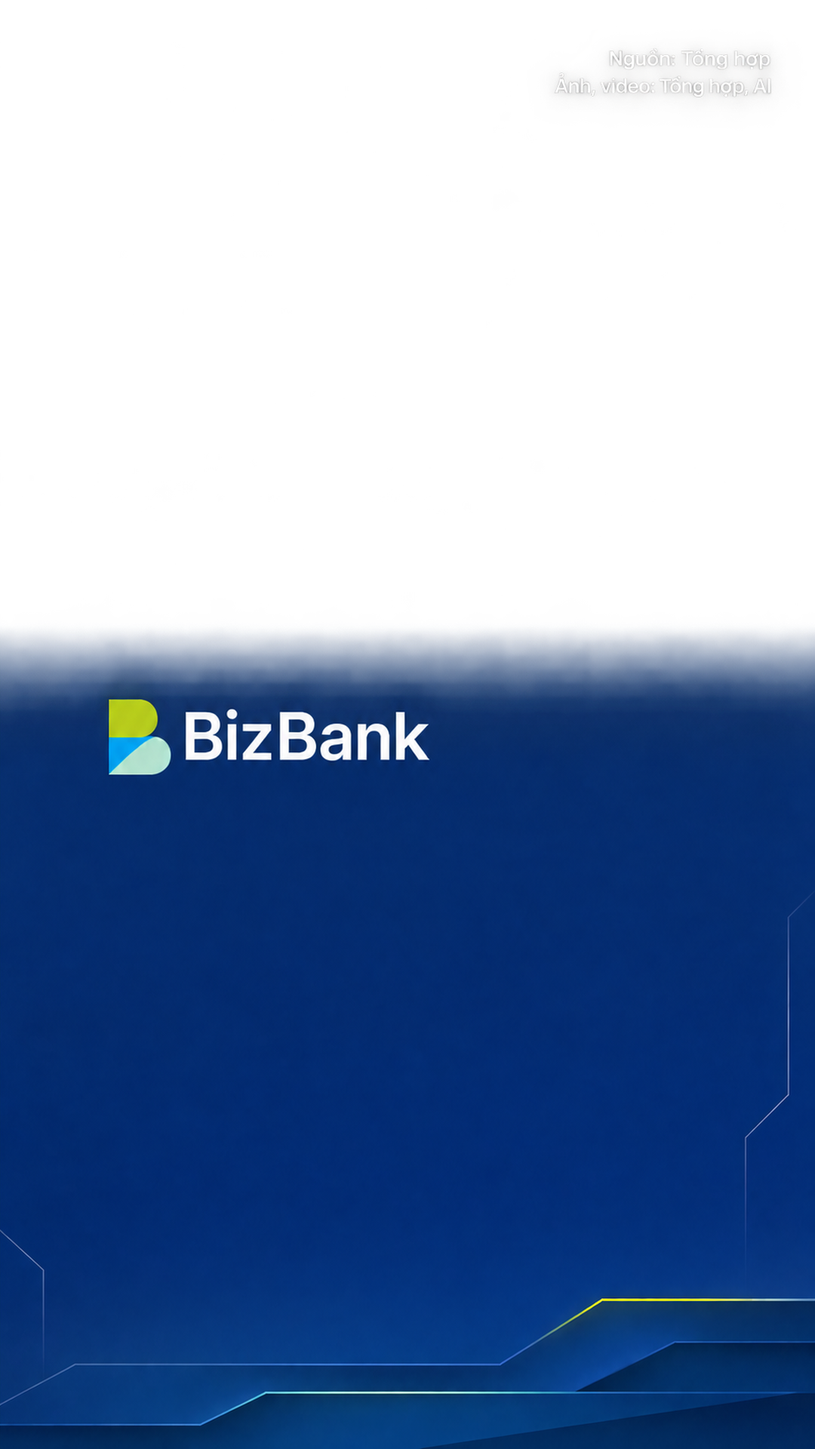
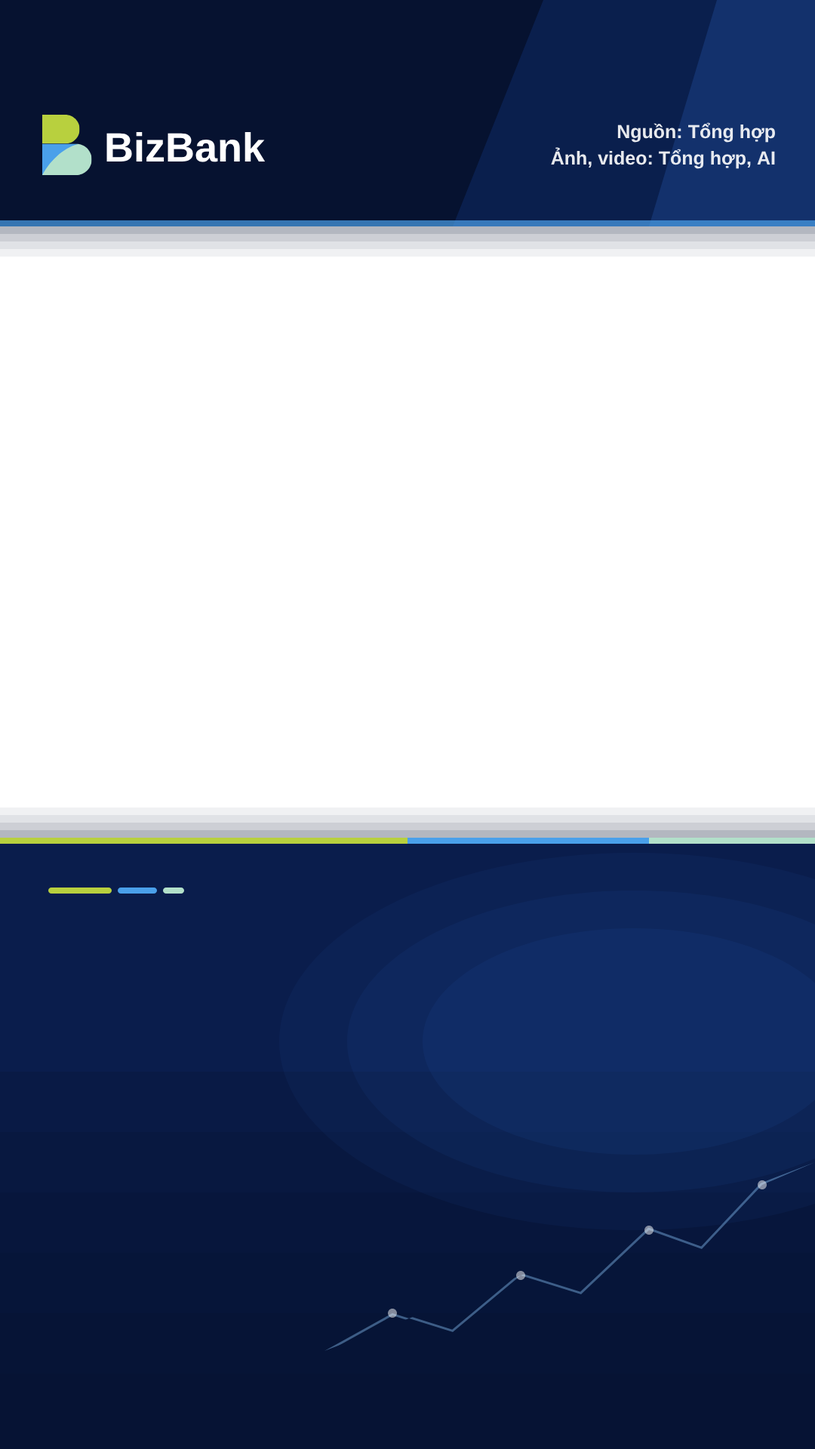
Template 2 BizBank: khung 4:3, câu hook, zoom theo độ phân giải, ảnh ưu tiên ≥1080p, thẻ theo màu template
- overlay.png = Template 2 (1080x1920), layout khung 4:3 y300–1110, vùng hook, màu brand đo từ template
- NewsShort: mọi lớp hình cắt theo khung 4:3; chuyển động giới hạn theo zoom_max; câu hook; thẻ navy + ba vạch màu
- render: zoom_max từ độ phân giải ảnh gốc (không phóng vỡ ảnh)
- media: ưu tiên ảnh phủ 1080x810, ảnh nhỏ chỉ để bù; ảnh AI ngang 1536x1024
- script.json: hook_text (< 100 ký tự); prompts, template.md, decisions.md

diff --git a/core/remotion/src/NewsShort.jsx b/core/remotion/src/NewsShort.jsx
@@ -1,35 +1,41 @@
 import {AbsoluteFill, Audio, Img, Sequence, interpolate, spring, staticFile, useCurrentFrame, useVideoConfig} from 'remotion';
 import {FONT} from './fonts';
 
-// Thứ tự lớp (decisions.md): media → cutout → thẻ chữ/số → overlay.png (template trên cùng).
-// Không có phụ đề. Thẻ và cutout chỉ nằm trong vùng ảnh (nửa trên) vì khung template che phần dưới.
+// Thứ tự lớp (decisions.md): ảnh nền → cutout → thẻ chữ/số → overlay.png (template trên cùng) ; câu hook dưới khung.
+// Mọi lớp hình nằm trong khung 4:3 của template (layout.media) và bị cắt theo khung: phóng, lia, trượt
+// đều không ra ngoài khung. Không có phụ đề.
 const FADE = 6;
 
 export const NewsShort = (props) => {
   const {fps} = useVideoConfig();
   const at = (seconds) => Math.round(seconds * fps);
-  const brand = {navy: '#0B2A6B', lime: '#C3D82E', cyan: '#22A6E8', mint: '#A8E0D0', ...props.style};
+  const brand = {navy: '#081840', lime: '#B8D03E', blue: '#4AA0EA', mint: '#B2E0CA', ...props.style};
+  const box = props.layout.media;
+  const local = (r) => ({...r, x: r.x - box.x, y: r.y - box.y});  // toạ độ trong khung
   const span = (item) => Math.max(1, at(item.end) - at(item.start));
   return (
     <AbsoluteFill style={{backgroundColor: brand.navy, fontFamily: FONT}}>
-      {props.scenes.map((scene, i) => (
-        // Cảnh kéo dài thêm FADE khung nằm dưới cảnh sau trong lúc cảnh sau hiện dần: không chớp nền.
-        <Sequence key={`m${i}`} from={at(scene.start)}
-          durationInFrames={Math.max(1, at(scene.end) - at(scene.start) + (i < props.scenes.length - 1 ? FADE : 0))}>
-          <MediaScene scene={scene} rect={props.layout.media} fade={i > 0} />
-        </Sequence>
-      ))}
-      {props.cutouts.map((item, i) => (
-        <Sequence key={`c${i}`} from={at(item.start)} durationInFrames={span(item)}>
-          <Cutout item={item} rect={props.layout.cutout} />
-        </Sequence>
-      ))}
-      {props.cards.map((card, i) => (
-        <Sequence key={`k${i}`} from={at(card.start)} durationInFrames={span(card)}>
-          <Card card={card} rect={props.layout.cards} brand={brand} />
-        </Sequence>
-      ))}
+      <div style={{position: 'absolute', left: box.x, top: box.y, width: box.w, height: box.h, overflow: 'hidden'}}>
+        {props.scenes.map((scene, i) => (
+          // Cảnh kéo dài thêm FADE khung nằm dưới cảnh sau trong lúc cảnh sau hiện dần: không chớp nền.
+          <Sequence key={`m${i}`} from={at(scene.start)}
+            durationInFrames={Math.max(1, at(scene.end) - at(scene.start) + (i < props.scenes.length - 1 ? FADE : 0))}>
+            <MediaScene scene={scene} fade={i > 0} />
+          </Sequence>
+        ))}
+        {props.cutouts.map((item, i) => (
+          <Sequence key={`c${i}`} from={at(item.start)} durationInFrames={span(item)}>
+            <Cutout item={item} rect={local(props.layout.cutout)} />
+          </Sequence>
+        ))}
+        {props.cards.map((card, i) => (
+          <Sequence key={`k${i}`} from={at(card.start)} durationInFrames={span(card)}>
+            <Card card={card} rect={local(props.layout.cards)} brand={brand} />
+          </Sequence>
+        ))}
+      </div>
       {props.overlay ? <Img src={staticFile(props.overlay)} style={{position: 'absolute', inset: 0, width: '100%', height: '100%'}} /> : null}
+      {props.hook && props.layout.hook ? <Hook text={props.hook} rect={props.layout.hook} /> : null}
       {props.voice ? <Audio src={staticFile(props.voice)} /> : null}
       {props.sfx.map((item, i) => (
         <Sequence key={`s${i}`} from={at(item.start)}>
@@ -50,77 +56,103 @@ const Music = ({music, duration}) => {
   return <Audio src={staticFile(music.src)} volume={volume} loop />;
 };
 
+// Chuyển động trong giới hạn z (zoom_max tính từ độ phân giải ảnh gốc). Lia tối đa (z-1)/(2z) để mép ảnh
+// không bao giờ lộ trong khung.
 const MOTIONS = {
-  'zoom-in': (p) => ({scale: 1 + 0.15 * p, x: 0, y: 0}),
-  'zoom-out': (p) => ({scale: 1.15 - 0.15 * p, x: 0, y: 0}),
-  'pan-left': (p) => ({scale: 1.15, x: 5 - 10 * p, y: 0}),
-  'pan-right': (p) => ({scale: 1.15, x: -5 + 10 * p, y: 0}),
-  'ken-burns': (p) => ({scale: 1.06 + 0.12 * p, x: -2 * p, y: -2 * p}),
-  'static': () => ({scale: 1.02, x: 0, y: 0}),
-  'split': (p) => ({scale: 1.05 + 0.05 * p, x: 0, y: 0}),
+  'zoom-in': (p, z) => ({s: 1 + (z - 1) * p, x: 0, y: 0}),
+  'zoom-out': (p, z) => ({s: z - (z - 1) * p, x: 0, y: 0}),
+  'pan-left': (p, z, a) => ({s: z, x: a - 2 * a * p, y: 0}),
+  'pan-right': (p, z, a) => ({s: z, x: -a + 2 * a * p, y: 0}),
+  'ken-burns': (p, z, a) => {
+    const s = 1 + (z - 1) * p;
+    const b = ((s - 1) / (2 * s)) * 100 * 0.7;
+    return {s, x: -b, y: -b * 0.6};
+  },
+  'static': () => ({s: 1, x: 0, y: 0}),
+  'split': (p, z) => ({s: 1 + (z - 1) * p, x: 0, y: 0}),
 };
 
-const MediaScene = ({scene, rect, fade}) => {
+const MediaScene = ({scene, fade}) => {
   const frame = useCurrentFrame();
   const {fps} = useVideoConfig();
   const total = Math.max(1, Math.round((scene.end - scene.start) * fps));
   const p = interpolate(frame, [0, total], [0, 1], {extrapolateRight: 'clamp'});
-  const m = (MOTIONS[scene.motion] || MOTIONS['ken-burns'])(p);
+  const z = Math.max(1, scene.zoom_max || 1.08);
+  const a = ((z - 1) / (2 * z)) * 100 * 0.9;
+  const m = (MOTIONS[scene.motion] || MOTIONS['ken-burns'])(p, z, a);
   const fadeIn = fade ? interpolate(frame, [0, FADE], [0, 1], {extrapolateRight: 'clamp'}) : 1;
   const src = staticFile(scene.src);
-  const box = {position: 'absolute', left: rect.x, top: rect.y, width: rect.w, height: rect.h, overflow: 'hidden'};
   return (
     <AbsoluteFill style={{opacity: fadeIn}}>
-      <div style={box}>
-        {/* Nền: chính ảnh đó phóng to, làm mờ, để ảnh văn bản/ảnh ngang không để lại viền trống */}
+      {scene.fit === 'contain' ? (
+        // Ảnh văn bản/biểu đồ: hiện đủ, phía sau là chính ảnh đó làm mờ để không có viền trống
         <Img src={src} style={{position: 'absolute', inset: 0, width: '100%', height: '100%', objectFit: 'cover',
-          filter: 'blur(36px) brightness(0.55)', transform: 'scale(1.25)'}} />
-        <Img src={src} style={{position: 'absolute', inset: 0, width: '100%', height: '100%', objectFit: scene.fit || 'cover',
-          transform: `scale(${m.scale}) translate(${m.x}%, ${m.y}%)`}} />
-      </div>
+          filter: 'blur(30px) brightness(0.5)', transform: 'scale(1.2)'}} />
+      ) : null}
+      <Img src={src} style={{position: 'absolute', inset: 0, width: '100%', height: '100%', objectFit: scene.fit || 'cover',
+        transform: `scale(${m.s}) translate(${m.x}%, ${m.y}%)`}} />
     </AbsoluteFill>
   );
 };
 
-// Cutout (người được nhắc tên, sự vật quan trọng): trượt vào từ cạnh, nảy nhẹ, chân đặt ở mép dưới vùng ảnh.
+// Cutout: trượt vào từ cạnh, nảy nhẹ, chân đặt ở đáy khung (dải mờ của template phủ lên chân, nhìn như đứng sau khung).
 const Cutout = ({item, rect}) => {
   const frame = useCurrentFrame();
   const {fps, durationInFrames} = useVideoConfig();
   const enter = spring({frame, fps, config: {damping: 13, stiffness: 120}});
   const leave = interpolate(frame, [durationInFrames - 6, durationInFrames], [1, 0], {extrapolateLeft: 'clamp'});
-  const height = Math.min(rect.h * 0.92, 640);
-  const width = Math.min(height * item.ratio, rect.w * 0.55);
+  const height = Math.min(rect.h * 0.86, 660);
+  const width = Math.min(height * item.ratio, rect.w * 0.5);
   const right = item.side === 'right';
-  const x = right ? rect.x + rect.w - width - 30 : rect.x + 30;
-  const slide = (1 - enter) * (right ? 1 : -1) * (width + 60);
+  const x = right ? rect.x + rect.w - width - 24 : rect.x + 24;
+  const slide = (1 - enter) * (right ? 1 : -1) * (width + 40);
   const float = Math.sin(frame / 18) * 4;
   return (
-    <Img src={staticFile(item.src)} style={{position: 'absolute', left: x + slide, top: rect.y + rect.h - height + float + 8,
+    <Img src={staticFile(item.src)} style={{position: 'absolute', left: x + slide, top: rect.y + rect.h - height + float + 6,
       width, height, objectFit: 'contain', objectPosition: 'bottom', opacity: leave,
-      filter: 'drop-shadow(0 0 2px #fff) drop-shadow(0 0 2px #fff) drop-shadow(0 16px 22px rgba(0,0,0,0.55))'}} />
+      filter: 'drop-shadow(0 0 2px #fff) drop-shadow(0 0 2px #fff) drop-shadow(0 14px 20px rgba(0,0,0,0.5))'}} />
   );
 };
 
-// Thẻ chữ/số: giá trị lớn + nhãn nhỏ, màu nhận diện, bật lên đúng lúc được đọc.
+// Thẻ chữ/số theo nhận diện template: nền navy, ba vạch lá mạ/xanh/bạc hà, số trắng, nhãn bạc hà.
 const Card = ({card, rect, brand}) => {
   const frame = useCurrentFrame();
   const {fps, durationInFrames} = useVideoConfig();
   const pop = spring({frame, fps, config: {damping: 12, stiffness: 170}});
   const leave = interpolate(frame, [durationInFrames - 5, durationInFrames], [1, 0], {extrapolateLeft: 'clamp'});
-  const narrow = card.align !== 'center';
-  const width = narrow ? rect.w * 0.6 : Math.min(rect.w, 860);
-  const left = card.align === 'left' ? rect.x : card.align === 'right' ? rect.x + rect.w - width : rect.x + (rect.w - width) / 2;
-  const valueSize = Math.min(narrow ? 84 : 104, Math.floor((width - 70) / Math.max(1, card.value.length * 0.6)));
+  const beside = card.align !== 'center';
+  const maxWidth = rect.w * (beside ? 0.58 : 0.74);
+  const valueSize = Math.min(beside ? 76 : 88, Math.floor((maxWidth - 72) / Math.max(4, card.value.length * 0.58)));
+  const anchor = card.align === 'right' ? {right: 0} : {left: 0};
   return (
-    <div style={{position: 'absolute', left, top: rect.y + rect.h - 230, width, opacity: leave,
-      transform: `translateY(${(1 - pop) * 40}px) scale(${0.85 + 0.15 * pop})`, transformOrigin: 'center bottom'}}>
-      <div style={{background: '#fff', borderRadius: 22, overflow: 'hidden', boxShadow: '0 14px 34px rgba(0,0,0,0.45)',
-        borderLeft: `14px solid ${brand.lime}`}}>
-        <div style={{padding: '14px 28px 4px', color: brand.navy, fontWeight: 800, fontSize: valueSize, lineHeight: 1.05,
-          letterSpacing: -1}}>{card.value}</div>
-        <div style={{padding: '0 28px 16px', color: '#3a4a6b', fontWeight: 600, fontSize: narrow ? 30 : 36, lineHeight: 1.2}}>
-          {card.label}</div>
+    <div style={{position: 'absolute', left: rect.x, top: rect.y, width: rect.w, height: rect.h, opacity: leave}}>
+      <div style={{position: 'absolute', bottom: 0, ...anchor, maxWidth, transformOrigin: card.align === 'right' ? 'right bottom' : 'left bottom',
+        transform: `translateY(${(1 - pop) * 36}px) scale(${0.86 + 0.14 * pop})`,
+        background: 'rgba(8,24,64,0.94)', borderRadius: 20, padding: '18px 32px 20px',
+        boxShadow: '0 12px 30px rgba(0,0,0,0.45)', border: '1px solid rgba(178,224,202,0.25)'}}>
+        <div style={{display: 'flex', gap: 8, marginBottom: 10}}>
+          <span style={{width: 54, height: 7, borderRadius: 4, background: brand.lime}} />
+          <span style={{width: 32, height: 7, borderRadius: 4, background: brand.blue}} />
+          <span style={{width: 16, height: 7, borderRadius: 4, background: brand.mint}} />
+        </div>
+        <div style={{color: '#fff', fontWeight: 800, fontSize: valueSize, lineHeight: 1.04, letterSpacing: -0.5,
+          whiteSpace: 'nowrap'}}>{card.value}</div>
+        <div style={{color: brand.mint, fontWeight: 600, fontSize: beside ? 28 : 32, lineHeight: 1.2, marginTop: 6}}>{card.label}</div>
       </div>
+    </div>
+  );
+};
+
+// Câu hook < 100 ký tự, đứng yên suốt video dưới khung ảnh.
+const Hook = ({text, rect}) => {
+  const frame = useCurrentFrame();
+  const {fps} = useVideoConfig();
+  const enter = spring({frame, fps, config: {damping: 16}});
+  const size = text.length > 70 ? 54 : text.length > 45 ? 60 : 68;
+  return (
+    <div style={{position: 'absolute', left: rect.x, top: rect.y, width: rect.w, height: rect.h, opacity: enter,
+      transform: `translateY(${(1 - enter) * 20}px)`}}>
+      <div style={{color: '#fff', fontWeight: 800, fontSize: size, lineHeight: 1.22, textWrap: 'balance'}}>{text}</div>
     </div>
   );
 };

diff --git a/core/news/media.py b/core/news/media.py
@@ -19,7 +19,12 @@ from . import agents
 from .config import ROOT, ensure_online
 from .episode import write_json
 
-MIN_SIDE = 600
+MIN_SIDE = 600               # dưới mức này bỏ hẳn
+FRAME = (1080, 810)          # khung ảnh 4:3 của template: ảnh "chất lượng cao" phải phủ khung này không cần phóng
+
+
+def high_res(size):
+    return size[0] >= FRAME[0] and size[1] >= FRAME[1]
 UA = "Mozilla/5.0 (Macintosh; Intel Mac OS X 14_0) AppleWebKit/537.36 (KHTML, like Gecko) Chrome/126 Safari/537.36"
 
 
@@ -178,16 +183,28 @@ def gather(ctx):
         sid = segment["id"]
         want = int(max(1, min(6, -(-times.get(sid, 0) // 3.5))))  # mỗi cảnh một ảnh riêng: ~1 ảnh/3,5 giây
         got = 0
+        pool = []  # tải hết ứng viên rồi ưu tiên ảnh phủ được khung 1080x810 (≈ ≥1080p); ảnh nhỏ hơn chỉ để bù
         for candidate in found.get(sid, {}).get("candidates", []):
-            if got >= want:
-                break
             try:
                 raw = download(candidate["image_url"], referer=candidate["page_url"])
             except Exception as error:
                 log.append(f"{sid}: bỏ {candidate['image_url'][:80]}: {error}")
                 continue
+            probe = ep.file(f"assets/.probe-{sid}.src")
+            probe.write_bytes(raw)
+            size = probe_image(probe, cfg.bin("ffprobe"))
+            probe.unlink(missing_ok=True)
+            if size and min(size) >= MIN_SIDE:
+                pool.append((not high_res(size), -size[0] * size[1], len(pool), raw, candidate))
+        for low, _, _, raw, candidate in sorted(pool, key=lambda item: item[:3]):
+            if got >= want:
+                break
+            if low and len([p for p in pool if not p[0]]) + got >= want:
+                break
             if add(raw, sid, candidate["kind"], candidate["page_url"], candidate["credit"], candidate["why"]):
                 got += 1
+            if low:
+                log.append(f"{sid}: dùng ảnh < 1080x810 vì không đủ ảnh lớn ({candidate['image_url'][:70]})")
         for source_id in segment["source_ids"]:  # dự phòng 1: ảnh đại diện bài nguồn của đoạn
             if got >= want or source_id not in sources:
                 continue
@@ -201,10 +218,10 @@ def gather(ctx):
                     log.append(f"{sid}: og:image lỗi: {error}")
         angles = ["", " Close-up detail shot.", " Wide establishing shot.", " Over-the-shoulder view.", " Top-down view."]
         for attempt in range(want - got):  # dự phòng 2: ảnh AI minh họa, mỗi ảnh một góc khác nhau
-            prompt = (found.get(sid, {}).get("ai_prompt") or f"Vertical documentary-style photo, Vietnam, {segment['visual']}")
+            prompt = (found.get(sid, {}).get("ai_prompt") or f"Landscape 4:3 documentary-style photo, Vietnam, {segment['visual']}")
             prompt += angles[attempt % len(angles)] + " No text, no logos, no real identifiable people."
             try:
-                if add(agents.generate_image(cfg, prompt), sid, "ai", None, "Ảnh minh họa AI", prompt):
+                if add(agents.generate_image(cfg, prompt, size="1536x1024"), sid, "ai", None, "Ảnh minh họa AI", prompt):
                     got += 1
             except Exception as error:
                 log.append(f"{sid}: ảnh AI lỗi: {error}")

diff --git a/core/news/render.py b/core/news/render.py
@@ -72,6 +72,19 @@ def pick_music(cfg, ep, stage):
             "fade_in": conf.get("fade_in_s", 0.8), "fade_out": conf.get("fade_out_s", 1.5)}
 
 
+MAX_ZOOM, LOW_RES_ZOOM = 1.15, 1.04
+
+
+def zoom_limit(asset, box, fit):
+    """Mức phóng tối đa của chuyển động: vừa đủ để ảnh không bị vỡ.
+    Ảnh lớn hơn khung: phóng tới khi 1 điểm ảnh gốc = 1 điểm video (tối đa 1,15). Ảnh nhỏ hơn khung: chỉ 1,04."""
+    w, h = asset["width"], asset["height"]
+    fill = max(box["w"] / w, box["h"] / h) if fit == "cover" else min(box["w"] / w, box["h"] / h)
+    if fill >= 1.0:
+        return LOW_RES_ZOOM
+    return round(max(1.0, min(MAX_ZOOM, 1.0 / fill)), 3)
+
+
 def build_props(ctx):
     """Dựng props + thư mục public cho Remotion. Trả (props, public_dir, dùng_template_tạm)."""
     cfg, ep = ctx.cfg, ctx.ep
@@ -108,8 +121,9 @@ def build_props(ctx):
     for scene in sorted(plan["scenes"], key=lambda s: s["start"]):
         asset = assets[scene["asset"]]
         src = stage(ep.file(f"assets/{asset['file']}"), f"media/{Path(asset['file']).name}")
-        scenes.append({"start": scene["start"], "end": scene["end"], "src": src, "motion": scene["motion"],
-                       "fit": "contain" if asset["kind"] in ("doc", "chart") else "cover"})
+        fit = "contain" if asset["kind"] in ("doc", "chart") else "cover"
+        scenes.append({"start": scene["start"], "end": scene["end"], "src": src, "motion": scene["motion"], "fit": fit,
+                       "zoom_max": zoom_limit(asset, layout["media"], fit)})
 
     def sound(sfx_id, start):
         item = sfx_index[sfx_id]
@@ -127,6 +141,7 @@ def build_props(ctx):
              "duration": plan["duration"], "layout": layout,
              "overlay": stage(overlay, "overlay.png"), "voice": stage(ep.file("audio/voice.mp3"), "voice.mp3"),
              "scenes": scenes, "cards": cards, "cutouts": staged_cutouts, "sfx": sfx, "music": music,
+             "hook": script.get("hook_text"),
              "style": layout.get("brand", {})}
     write_json(ep.file("render/props.json"), props)
     return props, public, temporary

diff --git a/core/standard/template.md b/core/standard/template.md
@@ -1,12 +1,11 @@
 # Template PNG lớp trên cùng
 
-- File: `assets/template/overlay.png` (BizBank, 1080×1920, RGBA), nằm **trên cùng**. Nửa trên (y 0–880) trong suốt là vùng ảnh; nửa dưới là khung xanh có logo, để trống (không đặt nội dung).
-- Thứ tự lớp: ảnh nền → cutout → thẻ chữ/số → overlay. **Không có phụ đề.**
-- `assets/template/layout.json`:
-  - `media`: vùng ảnh nền (ảnh ngang/văn bản tự có nền mờ phía sau).
-  - `cards`: vùng thẻ chữ/số (phần dưới vùng ảnh). Thẻ: giá trị lớn + nhãn, màu `brand`, bật lên đúng lúc trigger được đọc, kèm pop/ding.
-  - `cutout`: vùng cutout; cutout đứng ở cạnh trái/phải, chân chạm mép khung xanh, trượt vào kèm whoosh/swoosh. Có cutout thì thẻ né sang phía đối diện.
-  - `avoid`: nhãn "Nguồn…" góc trên phải, không đặt nội dung đè lên.
-  - `brand`: màu nhận diện (navy, lime, cyan, mint).
-- Đổi template: thay `overlay.png` (đúng 9:16, vùng ảnh trong suốt) và chỉnh `layout.json` cho khớp. Thiếu file thì hệ thống dùng `overlay-temp.png` + `layout-temp.json`.
+- File: `assets/template/overlay.png` (Template 2 BizBank, 1080×1920, RGBA), nằm **trên cùng**.
+- Khung ảnh/video **4:3: x 0–1080, y 300–1110 (1080×810)**. Vùng hoàn toàn trong suốt y 340–1069; hai dải 40 px trên/dưới là bóng mờ của template.
+- Thứ tự lớp: ảnh nền → cutout → thẻ chữ/số (cả ba bị cắt theo khung 4:3, phóng/lia/trượt không ra ngoài khung) → overlay → câu hook. **Không có phụ đề.**
+- Phóng ảnh vừa đủ: mức phóng tối đa tính từ độ phân giải ảnh gốc (1 điểm ảnh gốc ≥ 1 điểm video, tối đa 1,15; ảnh nhỏ hơn khung chỉ 1,04). Lia trong giới hạn để mép ảnh không lộ.
+- Ảnh sưu tầm ưu tiên phủ được 1080×810 không cần phóng (≈ ≥ 1080p); nhỏ hơn chỉ khi không có ảnh khác. Ảnh AI tạo ngang 1536×1024.
+- `assets/template/layout.json`: `media` (khung 4:3), `clear` (vùng trong suốt), `cards` (thẻ chữ/số, góc dưới trong vùng trong suốt), `cutout`, `hook` (câu hook dưới ba vạch màu), `brand` (navy #081840, lá mạ #B8D03E, xanh dương #4AA0EA, bạc hà #B2E0CA).
+- Thẻ chữ/số: nền navy, ba vạch lá mạ/xanh/bạc hà như template, số trắng, nhãn bạc hà; bật lên kèm pop/ding. Có cutout thì thẻ né sang phía đối diện.
+- Câu hook (`hook_text` trong script.json, < 100 ký tự): chữ trắng đậm, đứng yên suốt video.
 - Font: Be Vietnam Pro (OFL, cài qua npm trong `core/remotion`).

diff --git a/core/prompts/assets.md b/core/prompts/assets.md
@@ -8,9 +8,9 @@ Mỗi đoạn kịch bản có `visual` mô tả hình cần. Dùng web_search t
 Mỗi cảnh trong video dùng một ảnh riêng, **không dùng lại ảnh**, nên cần khoảng 1 ảnh cho mỗi 3,5 giây lời đọc. Với mỗi đoạn, trả 4–8 `candidates` khác nhau (không trùng ảnh, không cùng ảnh ở cỡ khác):
 - `image_url`: link **trực tiếp** tới file ảnh (.jpg/.jpeg/.png/.webp), lấy đúng từ trang bạn đã mở (thẻ og:image hoặc ảnh trong bài). Không bịa, không đoán đường dẫn.
 - `page_url`: trang chứa ảnh; `credit`: tên báo/cơ quan; `kind`: `real` (ảnh chụp) hoặc `doc` (ảnh văn bản, bảng, website).
-- Ảnh ngang hay dọc đều được, cạnh ngắn nên ≥ 600px. Tránh ảnh có watermark to, ảnh chân dung lãnh đạo không liên quan, ảnh quảng cáo.
+- Khung hiển thị là **4:3 ngang (1080×810)**. Ưu tiên ảnh ngang **độ phân giải cao: rộng ≥ 1920px** (tối thiểu phủ được 1080×810); lấy bản gốc lớn nhất của ảnh (không lấy thumbnail, ảnh thu nhỏ trong danh sách). Ảnh nhỏ hơn chỉ đưa vào khi không còn ảnh nào khác. Tránh ảnh có watermark to, ảnh chân dung lãnh đạo không liên quan, ảnh quảng cáo.
 
-`ai_prompt`: mô tả tiếng Anh cho ảnh minh họa dự phòng (dọc 2:3, phong cách ảnh chụp tài liệu, bối cảnh Việt Nam), **không** tái hiện người thật hay sự kiện cụ thể, không chữ trong ảnh. Đoạn `cta` có thể để candidates rỗng.
+`ai_prompt`: mô tả tiếng Anh cho ảnh minh họa dự phòng (ngang 4:3, phong cách ảnh chụp tài liệu, bối cảnh Việt Nam), **không** tái hiện người thật hay sự kiện cụ thể, không chữ trong ảnh. Đoạn `cta` có thể để candidates rỗng.
 
 **Cutout người** ("Người cần ảnh cutout"): với mỗi người, trả 2–4 `candidates` là ảnh báo chí thật của **đúng người đó** (ảnh chân dung hoặc nửa người, một mình, rõ mặt, nền càng đơn giản càng tốt) — hệ thống sẽ tách nền. Không lấy ảnh nhiều người, ảnh bị che, ảnh hoạt họa.
 

diff --git a/core/prompts/write.md b/core/prompts/write.md
@@ -8,6 +8,7 @@ Yêu cầu bắt buộc:
 - **Tổng ≤ 200 âm tiết** (giới hạn cứng 220), mỗi câu ≤ 20 âm tiết.
 - `say`: lời đọc cho máy, **không có chữ số và ký hiệu**: "một tỷ đồng", "ngày mười lăm tháng mười một", "mười phần trăm", "nghị định ba trăm chín mươi tám". Viết tắt đọc được thì viết đủ lần đầu ("bảo hiểm xã hội").
 - `show`: cùng nội dung với `say` từng chữ, nhưng số dạng chữ số và ký hiệu chuẩn: "1 tỷ đồng", "15/11", "10%", "Nghị định 398". Không thêm/bớt ý so với `say`.
+- `hook_text`: một câu < 100 ký tự (đếm cả dấu cách) nói thẳng nội dung và quyền lợi của video, hiện suốt video dưới khung ảnh. Đúng sự thật, có số/ngày nếu có, không giật tít.
 - **Không có phụ đề.** Thông tin quan trọng hiện bằng **thẻ chữ/số** (`cards`) và **cutout** (`cutouts`), mỗi lần xuất hiện có tiếng động.
 - `cards` (0–3 mỗi đoạn, cả video ≥ 3, mỗi đoạn tin ≥ 1 thẻ hoặc cutout): `value` là chữ/số lớn ≤ 18 ký tự ("5,7 triệu/tháng", "1/1/2027", "Tới 150 triệu", "Hộ kinh doanh"), `label` ≤ 40 ký tự giải thích ("Lương tối thiểu vùng 1"), `trigger` là cụm **nguyên văn trong `show`** — thẻ hiện đúng lúc cụm đó được đọc. Chọn thông tin chủ shop cần nhớ: số tiền, ngày hiệu lực, mức phạt, mức %, đối tượng áp dụng. **Mỗi thẻ một giá trị** (tối đa 2 số khi là khoảng "40–150 triệu"); nhiều mức thì tách nhiều thẻ, không gộp "5,7/5,08/4,45".
 - `cutouts` (0–2 mỗi đoạn): `kind: person` cho **người nổi tiếng được nhắc tên** trong lời đọc (lãnh đạo, bộ trưởng, doanh nhân) — `search` = họ tên + chức danh; `kind: object` cho **sự vật quan trọng được nhắc tới** (tờ tiền, sổ bảo hiểm xã hội, máy POS, hóa đơn, xăng dầu…) — `search` = mô tả tiếng Anh một vật đơn lẻ. `trigger` nguyên văn trong `show`. Không tạo cutout người không được nhắc tên.

diff --git a/docs/decisions.md b/docs/decisions.md
@@ -15,3 +15,4 @@
 - 2026-11-08: Không làm phụ đề. Tập trung thẻ chữ/số cho thông tin quan trọng, mỗi thẻ xuất hiện kèm tiếng động.
 - 2026-11-08: Đa dạng cutout: người nổi tiếng được nhắc tên (ảnh thật tách nền, không AI vẽ người thật), sự vật quan trọng được nhắc tới (AI PNG trong suốt hoặc ảnh thật tách nền); xuất hiện kèm tiếng động.
 - 2026-11-08: Template mặc định: BizBank (`assets/template/overlay.png`, bản Sếp gửi ngày 2026-11-07, Drive `05 - BUSINESS/Bizbank`). Không dùng `Template 1.png`.
+- 2026-11-08: Template 2 BizBank (khung ảnh/video 4:3, 1080x810) thay template trước. Thẻ chữ/số, cutout, ảnh luôn nằm trong khung 4:3 kể cả khi phóng/lia; phóng vừa đủ theo độ phân giải ảnh gốc. Câu hook < 100 ký tự dưới khung. Ảnh sưu tầm ưu tiên ≥ 1080p (phủ khung 1080x810), ảnh nhỏ hơn chỉ khi không tìm được ảnh khác. Thẻ theo màu template (navy, lá mạ, xanh dương, bạc hà).
